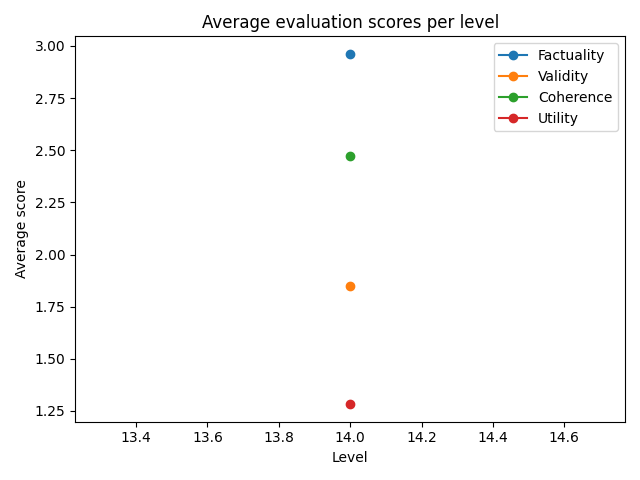
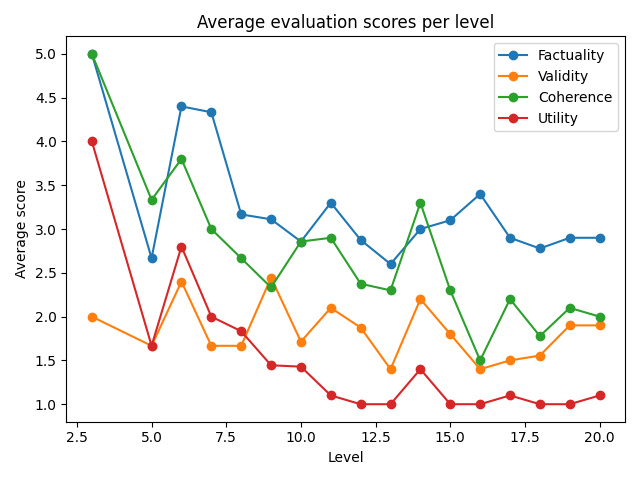
graph cot

diff --git a/train/cot_eval_graph.py b/train/cot_eval_graph.py
@@ -3,7 +3,7 @@ import ast
 import matplotlib.pyplot as plt
 from collections import defaultdict
 
-with open("./cot_evaluation_results_20251213_071144.json", "r", encoding="utf-8") as f:
+with open("./cot_evaluation_results_20251213_073258.json", "r", encoding="utf-8") as f:
     data = json.load(f)
 
 scores = defaultdict(lambda: defaultdict(list))
